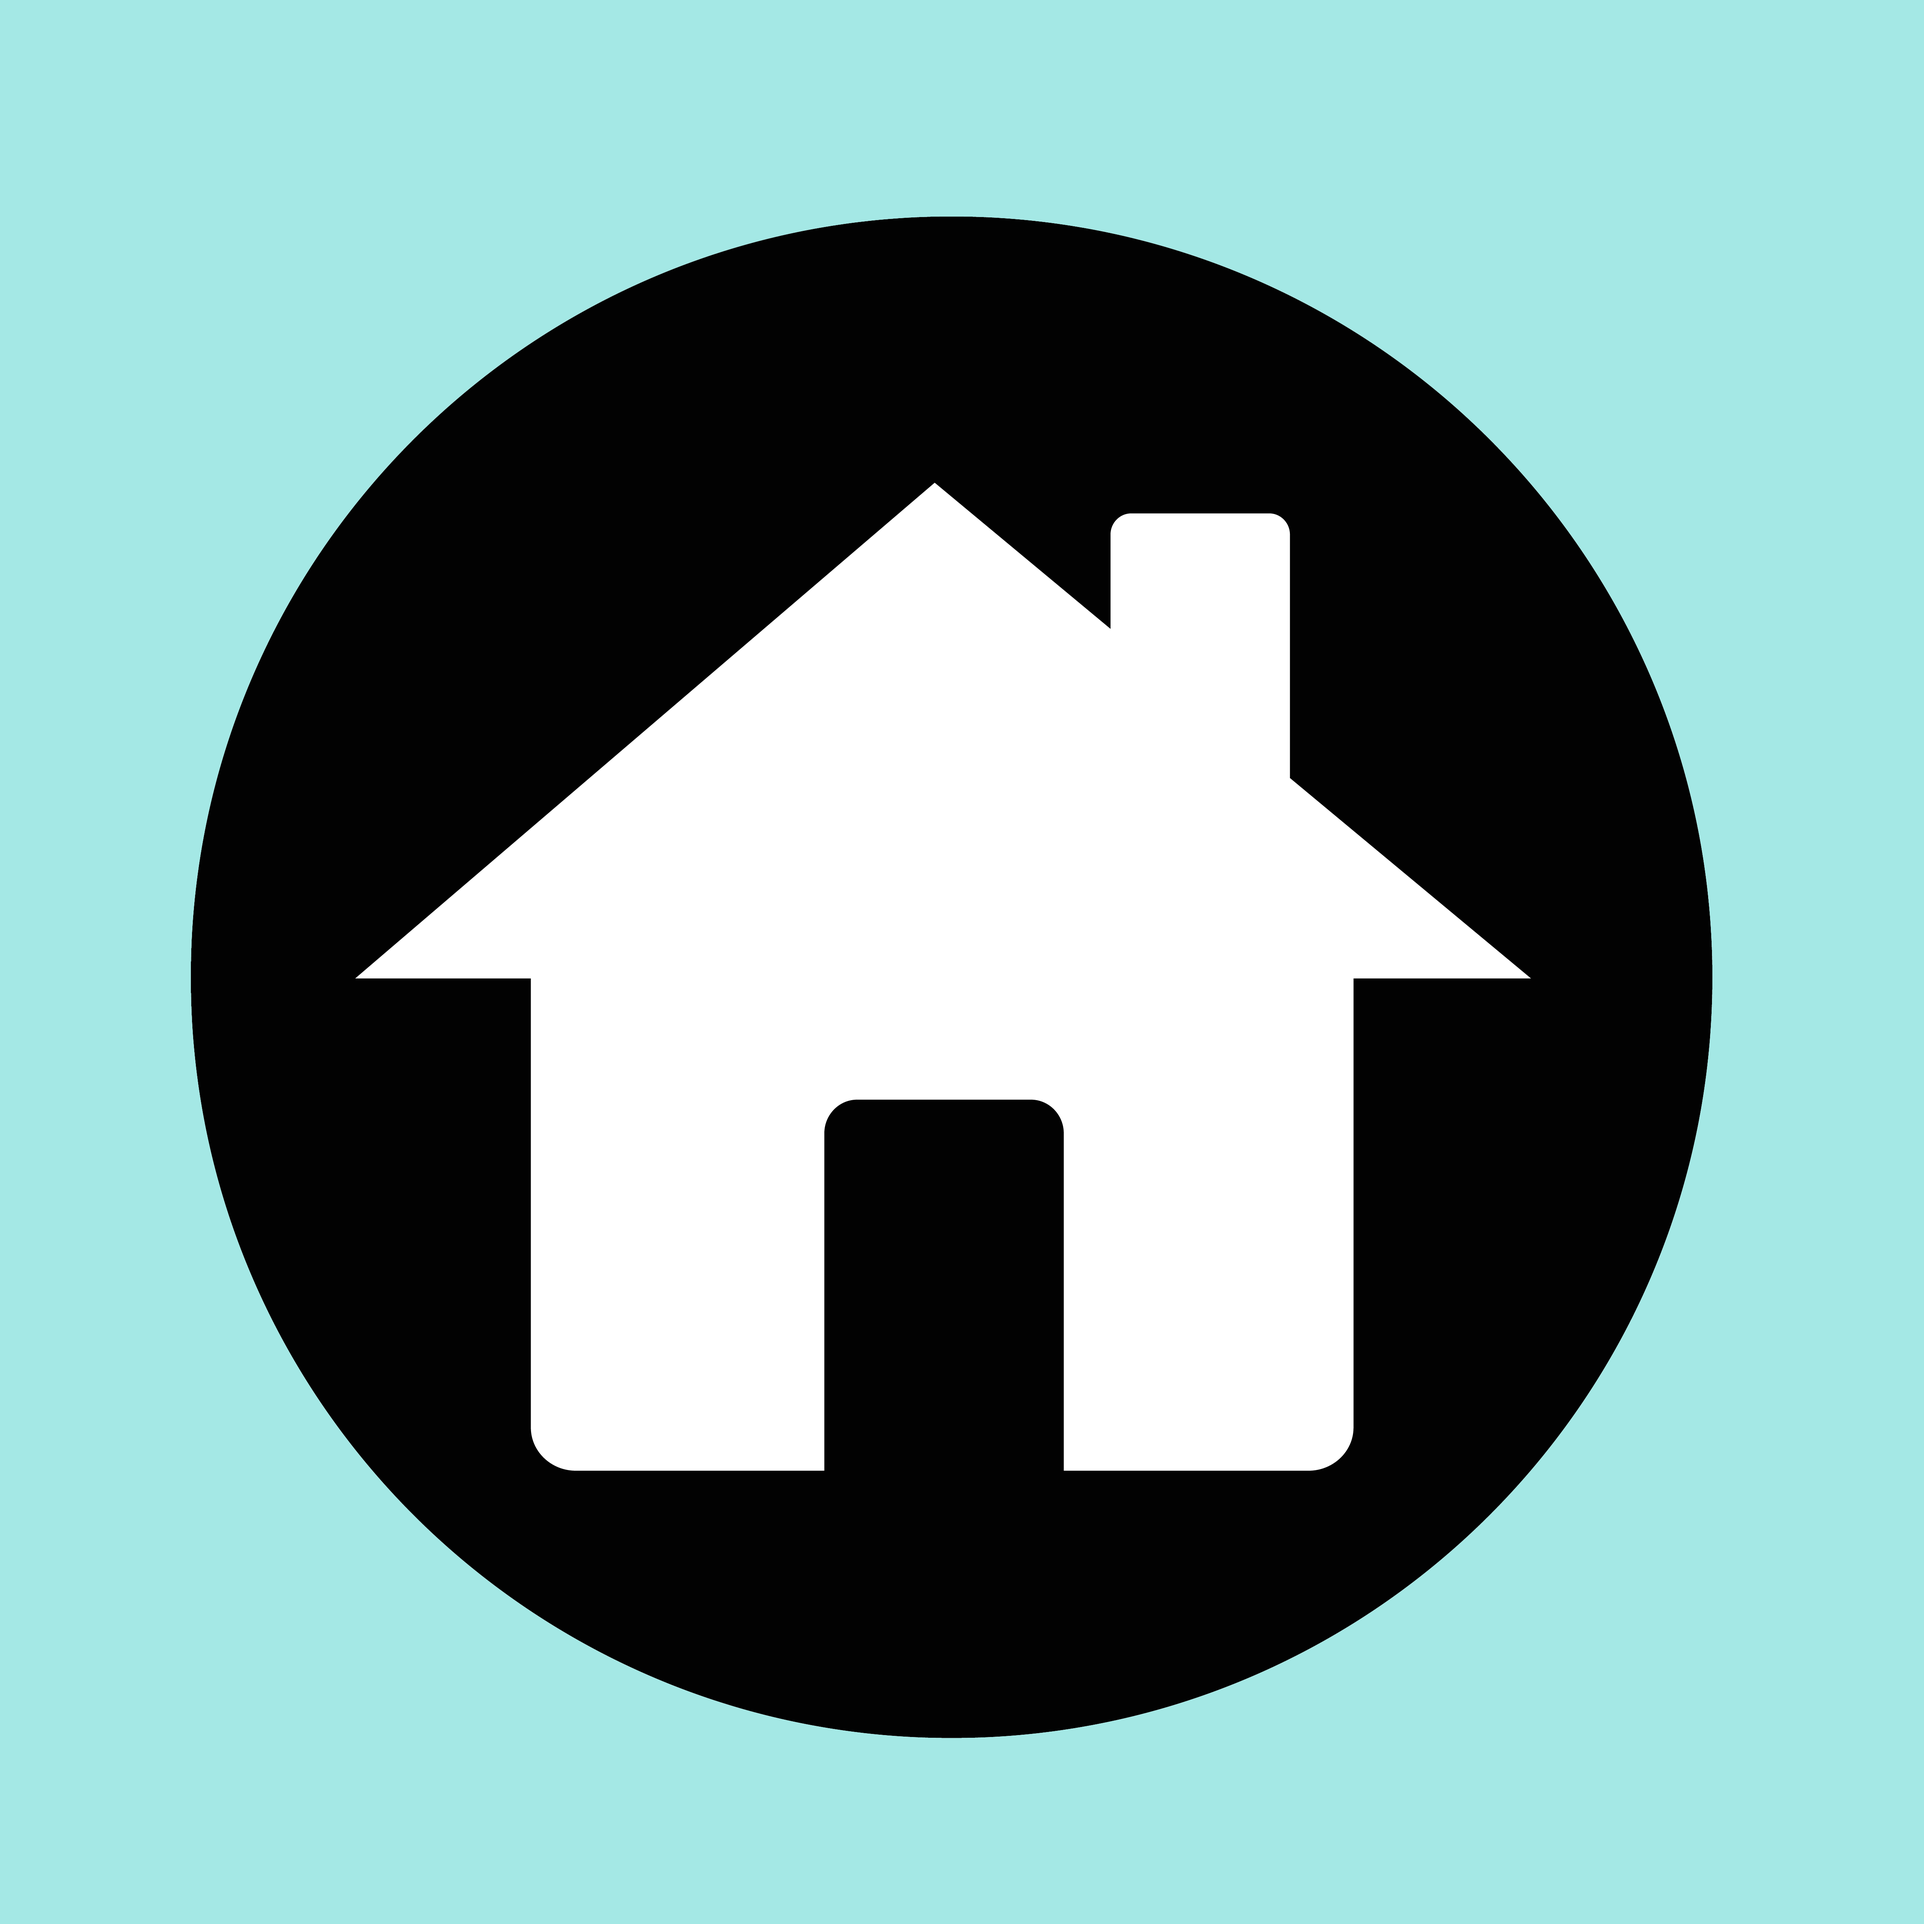
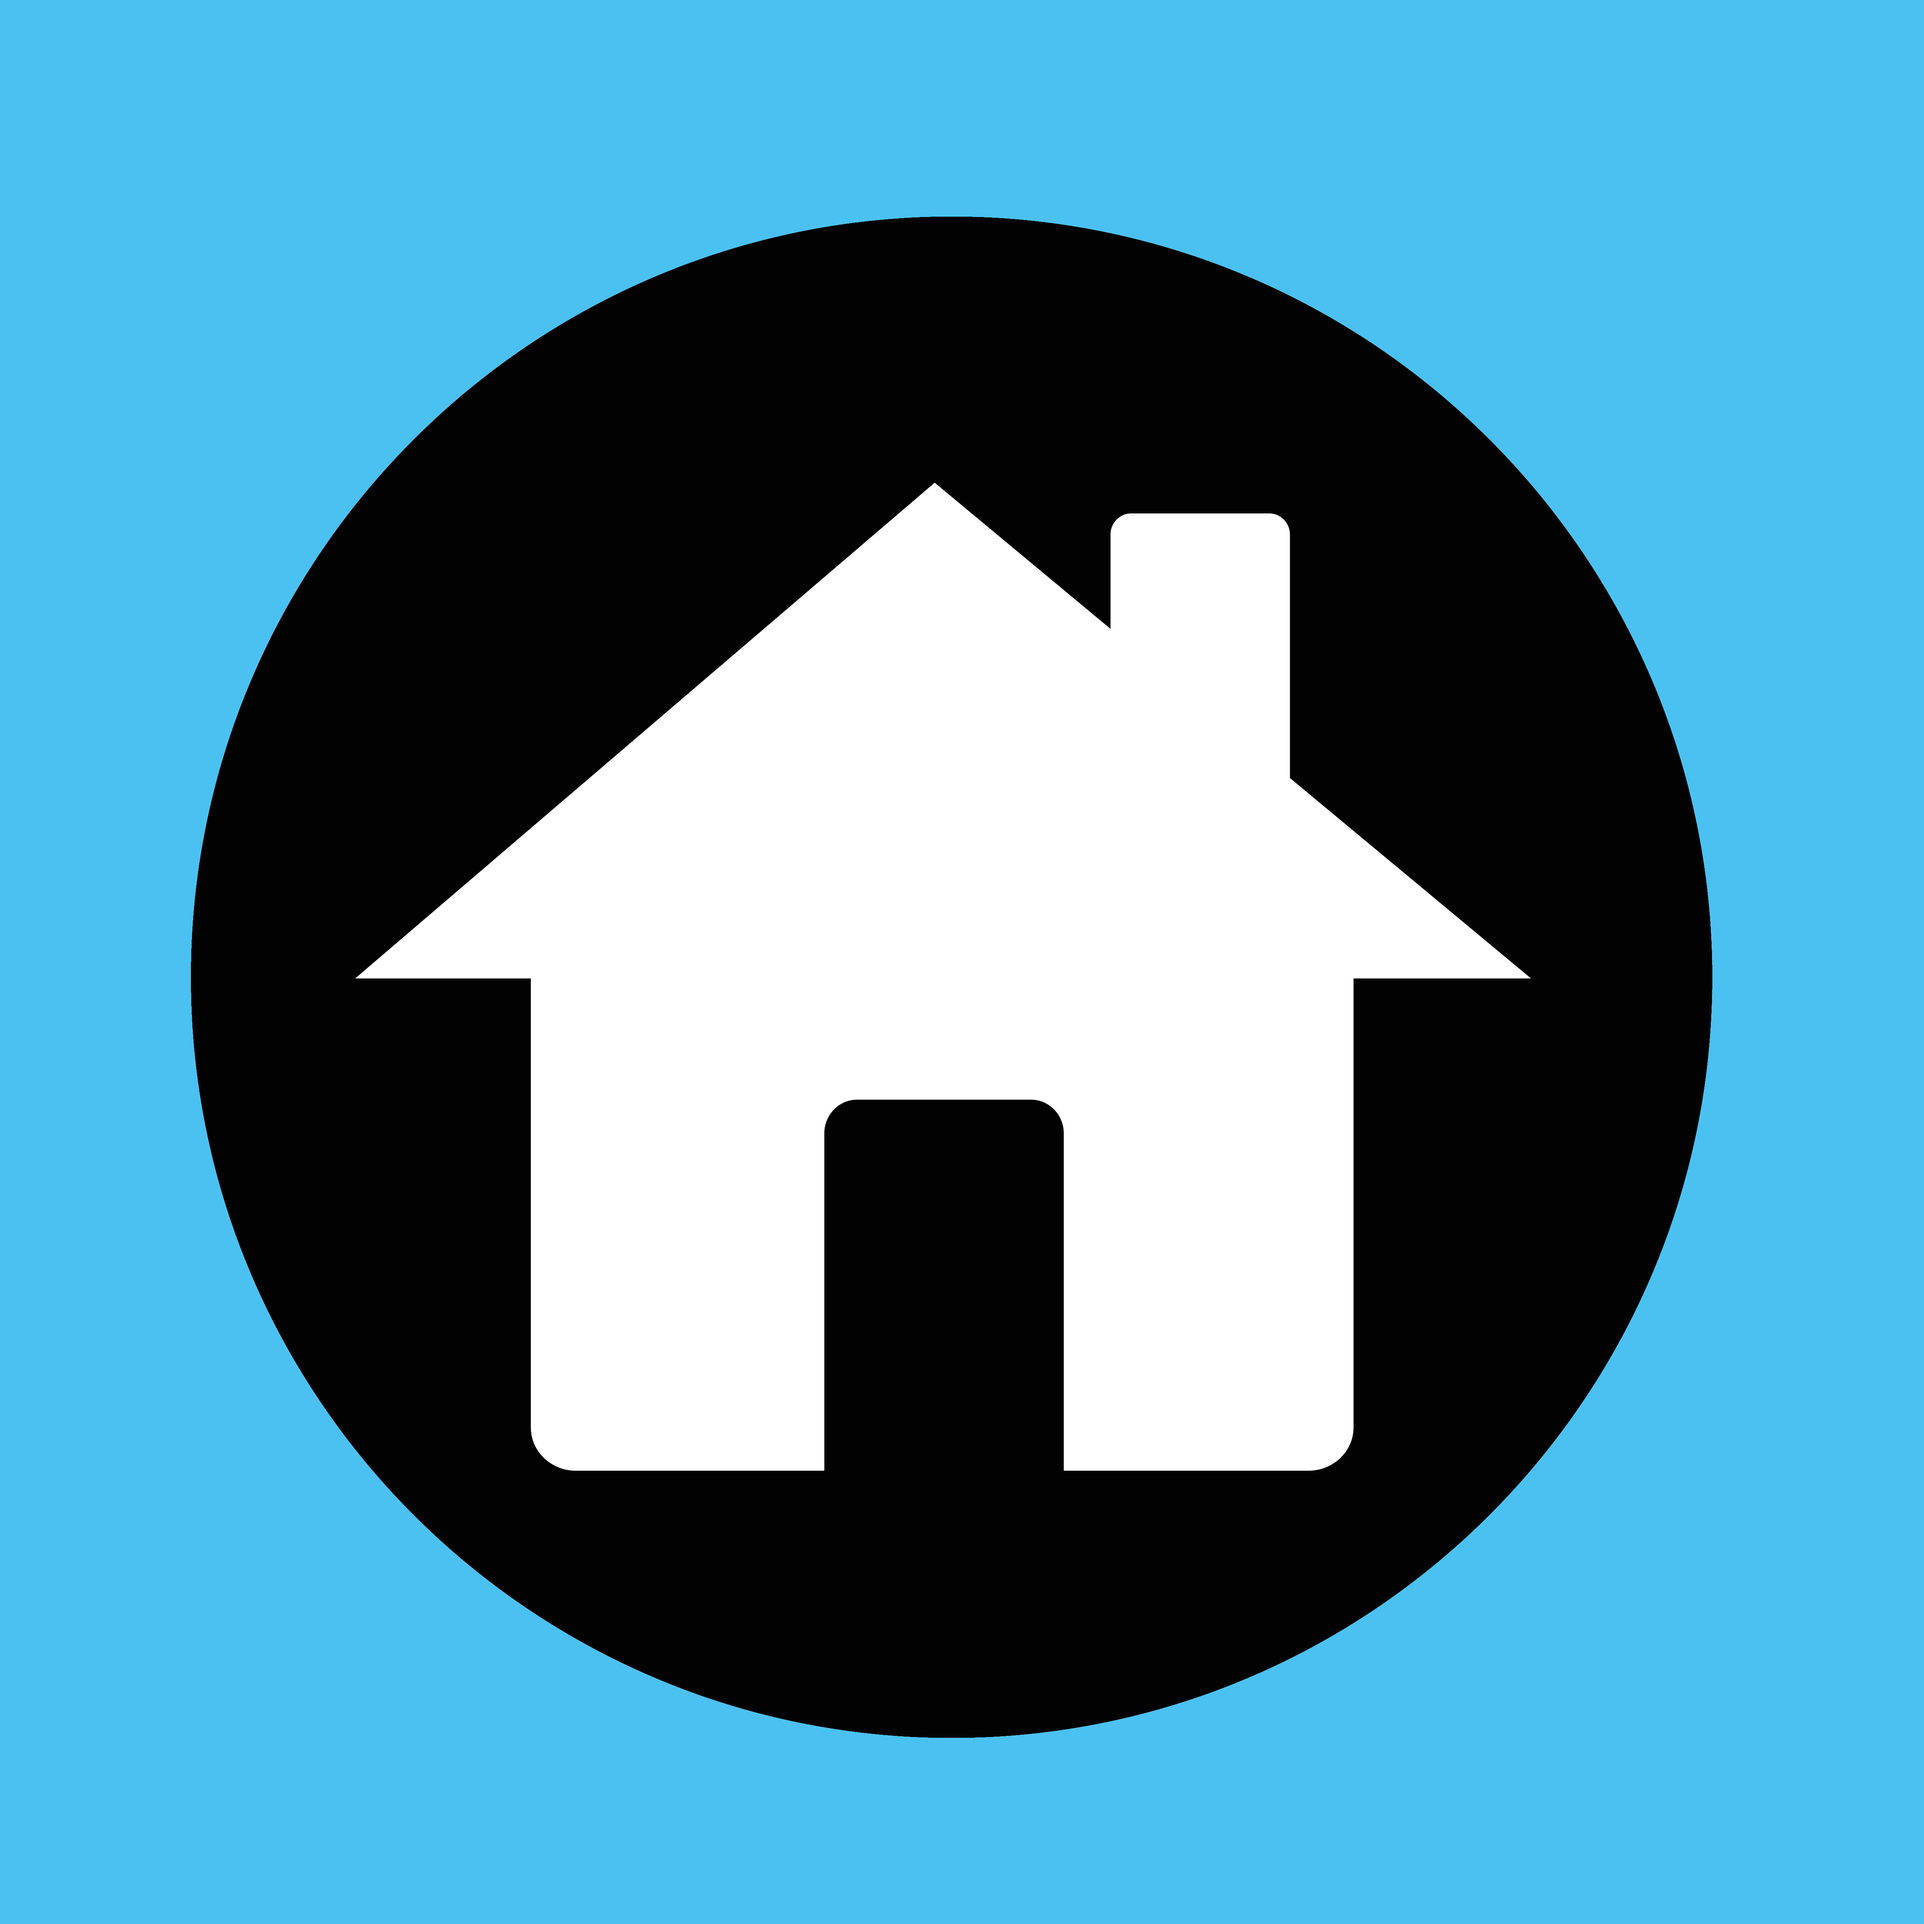
Third Commit

diff --git a/index.html b/index.html
@@ -3,7 +3,7 @@
   <head>
     <meta charset="UTF-8" />
     <meta name="viewport" content="width=device-width, initial-scale=1.0" />
-    <link rel="stylesheet" href="../SBA 307/CSS/style.css" />
+    <link rel="stylesheet" href="../SBA307/CSS/style.css" />
     <link
       href="https://cdn.jsdelivr.net/npm/bootstrap@5.2.3/dist/css/bootstrap.min.css"
       rel="stylesheet"
@@ -11,7 +11,7 @@
       crossorigin="anonymous"
     />
 
-    <title>Simba Flag Football League!</title>
+    <title>Simba Flag Football League</title>
 
     <style>
       a {
@@ -23,7 +23,7 @@
     </style>
   </head>
 
-  <body>
+  <body style="background-color: rgb(154, 229, 250)">
     <!--<script
       src="https://cdn.jsdelivr.net/npm/bootstrap@5.2.3/dist/js/bootstrap.bundle.min.js"
       integrity="sha384-kenU1KFdBIe4zVF0s0G1M5b4hcpxyD9F7jL+jjXkk+Q2h455rYXK/7HAuoJl+0I4"
@@ -31,16 +31,16 @@
     ></script>-->
 
     <nav>
-      <h2><a href="../SBA 307/index.html">Home</a></h2>
+      <h2><a href="../SBA307/index.html">Home</a></h2>
       <h2>
-        <a class="blink_me" href="../SBA 307/register.html">Register Here!</a>
+        <a class="blink_me" href="../SBA307/register.html">Register Here!</a>
       </h2>
-      <h2><a href="../SBA 307/about.html">About Us</a></h2>
+      <h2><a href="../SBA307/about.html">About Us</a></h2>
       <a id="fb-logo" href="https://www.facebook.com/NFLFLAGFOOTBALL/"
-        ><img src="../SBA 307/images/fb-blue.png"
+        ><img src="../SBA307/images/fb-blue.png"
       /></a>
       <a id="flag" href="https://nflflag.com"
-        ><img src="../SBA 307/images/nflflag.png"
+        ><img src="../SBA307/images/nflflag.png"
       /></a>
     </nav>
 
@@ -61,21 +61,21 @@
       <div class="carousel-inner">
         <div class="carousel-item active">
           <img
-            src="../SBA 307/images/football-1.webp"
+            src="../SBA307/images/football-1.webp"
             class="d-block w-100"
             alt="..."
           />
         </div>
         <div class="carousel-item">
           <img
-            src="../SBA 307/images/football-2.webp"
+            src="../SBA307/images/football-2.webp"
             class="d-block w-100"
             alt="..."
           />
         </div>
         <div class="carousel-item">
           <img
-            src="../SBA 307/images/football-3.webp"
+            src="../SBA307/images/football-3.webp"
             class="d-block w-100"
             alt="..."
           />

diff --git a/about.html b/about.html
@@ -3,7 +3,7 @@
   <head>
     <meta charset="UTF-8" />
     <meta name="viewport" content="width=device-width, initial-scale=1.0" />
-    <link rel="stylesheet" href="..//SBA 307/CSS/about.style.css" />
+    <link rel="stylesheet" href="./CSS/about.style.css" />
 
     <style>
       a {
@@ -19,18 +19,18 @@
 
   <body>
     <nav>
-      <h2><a href="../SBA 307/index.html">Home</a></h2>
+      <h2><a href="../SBA307/index.html">Home</a></h2>
       <h2>
         <a class="blink_me" href="../SBA 307/register.html"
           >Register Online Here!</a
         >
       </h2>
-      <h2><a href="../SBA 307/about.html">About Us</a></h2>
+      <h2><a href="../SBA307/about.html">About Us</a></h2>
       <a id="flag" href="https://nflflag.com"
-        ><img src="../SBA 307/images/nflflag.png"
+        ><img src="../SBA307/images/nflflag.png"
       /></a>
       <a id="fb-logo" href="https://www.facebook.com/NFLFLAGFOOTBALL/"
-        ><img src="../SBA 307/images/fb-blue.png"
+        ><img src="../SBA307/images/fb-blue.png"
       /></a>
     </nav>
 
@@ -58,7 +58,7 @@
       </p>
     </div>
 
-    <img id="eli" src="../SBA 307/images/Eli.png" alt="Eli Manning" />
+    <img id="eli" src="../SBA307/images/Eli.png" alt="Eli Manning" />
     <section>
       <table>
         <caption>
@@ -87,7 +87,7 @@
       </table>
     </section>
     <div id="contact-us">
-      <h2>Questions? Contact Us <a href="../SBA 307/contact.html">Here.</a><h2></div>
+      <h2>Questions? Contact Us <a href="../SBA307/contact.html">Here.</a><h2></div>
 
     <!--<div id="video-highlights">
       <h1>Flag Football Video Highlights</h1>

diff --git a/register.html b/register.html
@@ -3,7 +3,7 @@
   <head>
     <meta charset="UTF-8" />
     <meta name="viewport" content="width=device-width, initial-scale=1.0" />
-    <link rel="stylesheet" href="../SBA 307/CSS/register.style.css" />
+    <link rel="stylesheet" href="./CSS/register.style.css" />
     <title>Register Here!</title>
 
     <link
@@ -30,16 +30,16 @@
       crossorigin="anonymous"
     ></script>
     <nav>
-      <h2><a href="../SBA 307/index.html">Home</a></h2>
+      <h2><a href="../SBA307/index.html">Home</a></h2>
       <h2>
-        <a class="blink_me" href="../SBA 307/register.html">Register Here!</a>
+        <a class="blink_me" href="../SBA307/register.html">Register Here!</a>
       </h2>
-      <h2><a href="../SBA 307/about.html">About Us</a></h2>
+      <h2><a href="../SBA307/about.html">About Us</a></h2>
       <a id="fb-logo" href="https://www.facebook.com/NFLFLAGFOOTBALL/"
-        ><img src="../SBA 307/images/fb-blue.png"
+        ><img src="../SBA307/images/fb-blue.png"
       /></a>
       <a id="flag" href="https://nflflag.com">
-        <img src="../SBA 307/images/nflflag.png"
+        <img src="../SBA307/images/nflflag.png"
       /></a>
     </nav>
     <hr style="color: rgb(201, 17, 20)" />
@@ -174,5 +174,6 @@
         <button class="btn btn-primary" type="submit">Submit form</button>
       </form>
     </div>
+    <div id="height"></div>
   </body>
 </html>

diff --git a/contact.html b/contact.html
@@ -3,7 +3,7 @@
   <head>
     <meta charset="UTF-8" />
     <meta name="viewport" content="width=device-width, initial-scale=1.0" />
-    <link rel="stylesheet" href="../SBA 307/CSS/contact.css" />
+    <link rel="stylesheet" href="./CSS/contact.css" />
     <link
       href="https://cdn.jsdelivr.net/npm/bootstrap@5.2.3/dist/css/bootstrap.min.css"
       rel="stylesheet"
@@ -13,7 +13,7 @@
     <title>Contact</title>
   </head>
 
-  <body style="background-color: rgb(164, 232, 229)" ;>
+  <body style="background: rgb(75, 191, 233)">
     <h1 id="contact">Contact Us:</h1>
     <form style="width: 26rem">
       <!-- Name input -->
@@ -57,8 +57,8 @@
         Send
       </button>
     </form>
-    <a href="../SBA 307/index.html"
-      ><img id="home-button" src="../SBA 307/images/home-icon.png"
+    <a href="../SBA307/index.html"
+      ><img id="home-button" src="../SBA307/images/home-icon.png"
     /></a>
   </body>
 </html>

diff --git a/CSS/contact.css b/CSS/contact.css
@@ -18,9 +18,11 @@ form {
   margin-top: 10%
 }
 
+
 #home-button {
   width: 70px;
   height: 70px;
-  margin-left: 51%;
+  margin-left: 53%;
   margin-top: 10px;
+  color: #8ad3ef;
 }

diff --git a/CSS/style.css b/CSS/style.css
@@ -1,5 +1,6 @@
 body {
   margin: 80px;
+
   /* background-image: url(../images/football.jpg); 
   background-size: 30px 30px; */
 }

diff --git a/CSS/register.style.css b/CSS/register.style.css
@@ -63,3 +63,7 @@ select {
 #age select {
   width: 80px;
 }
+
+#height {
+  height: 400px;
+}
